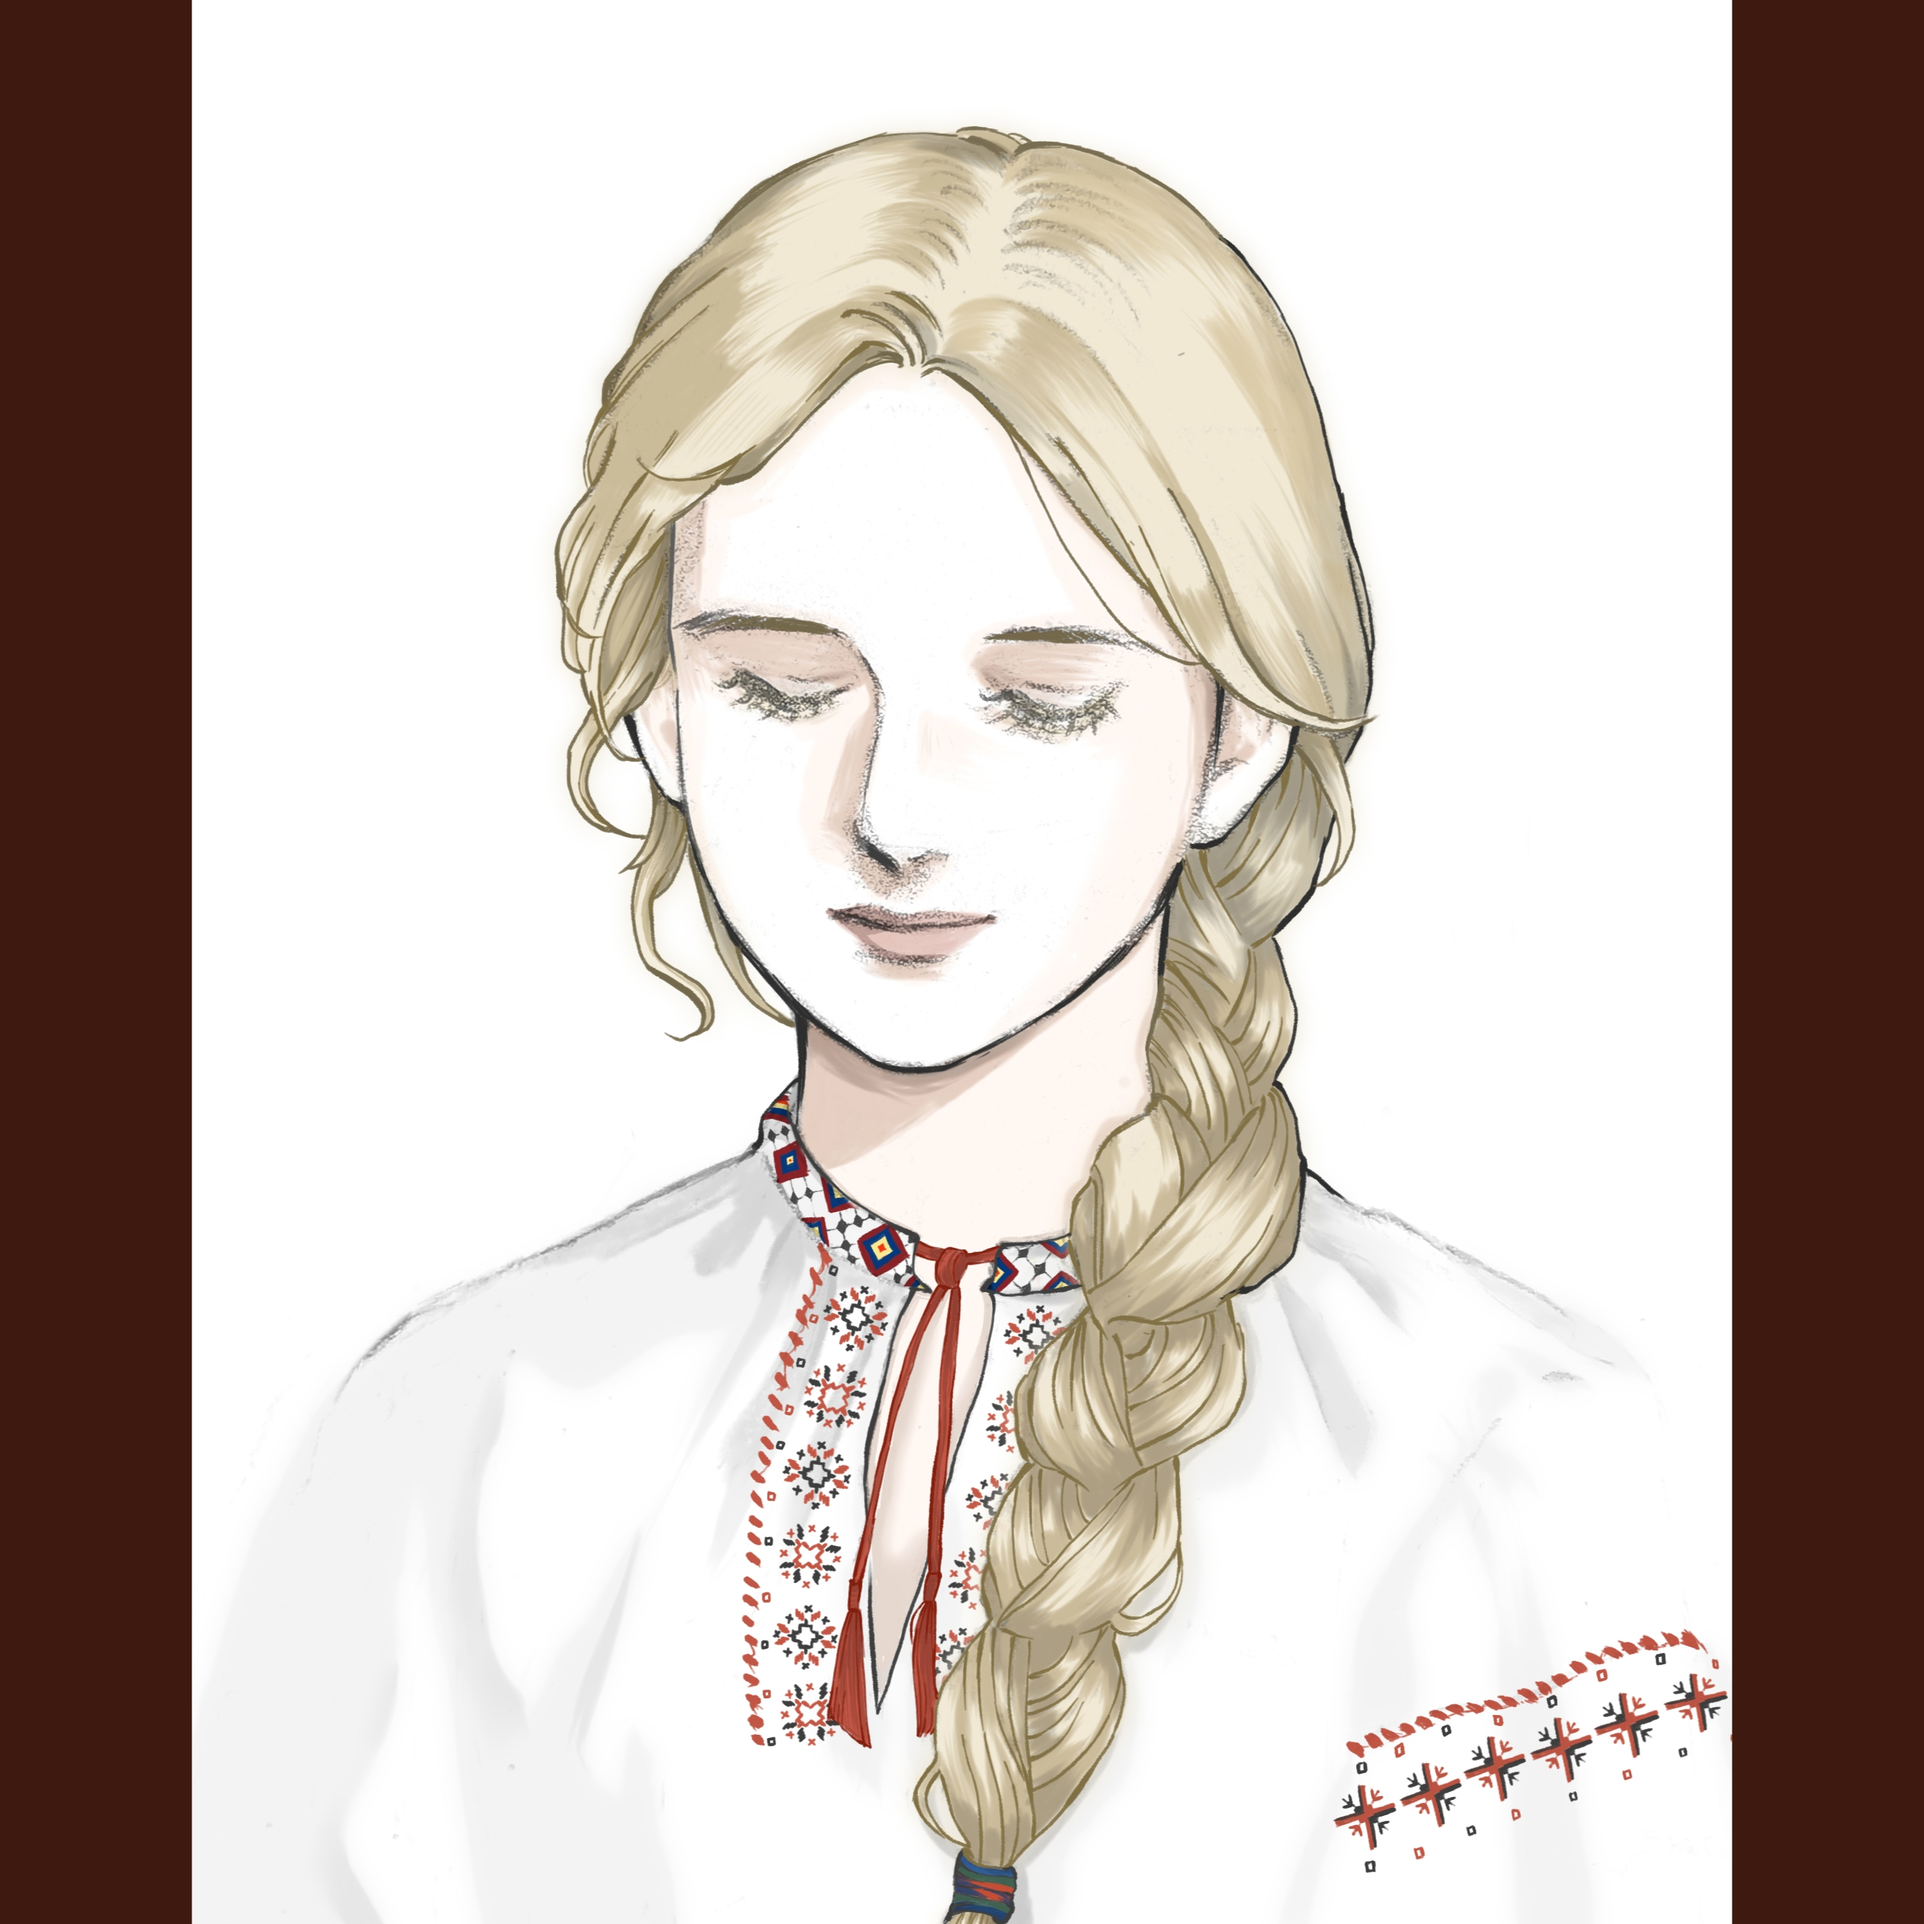
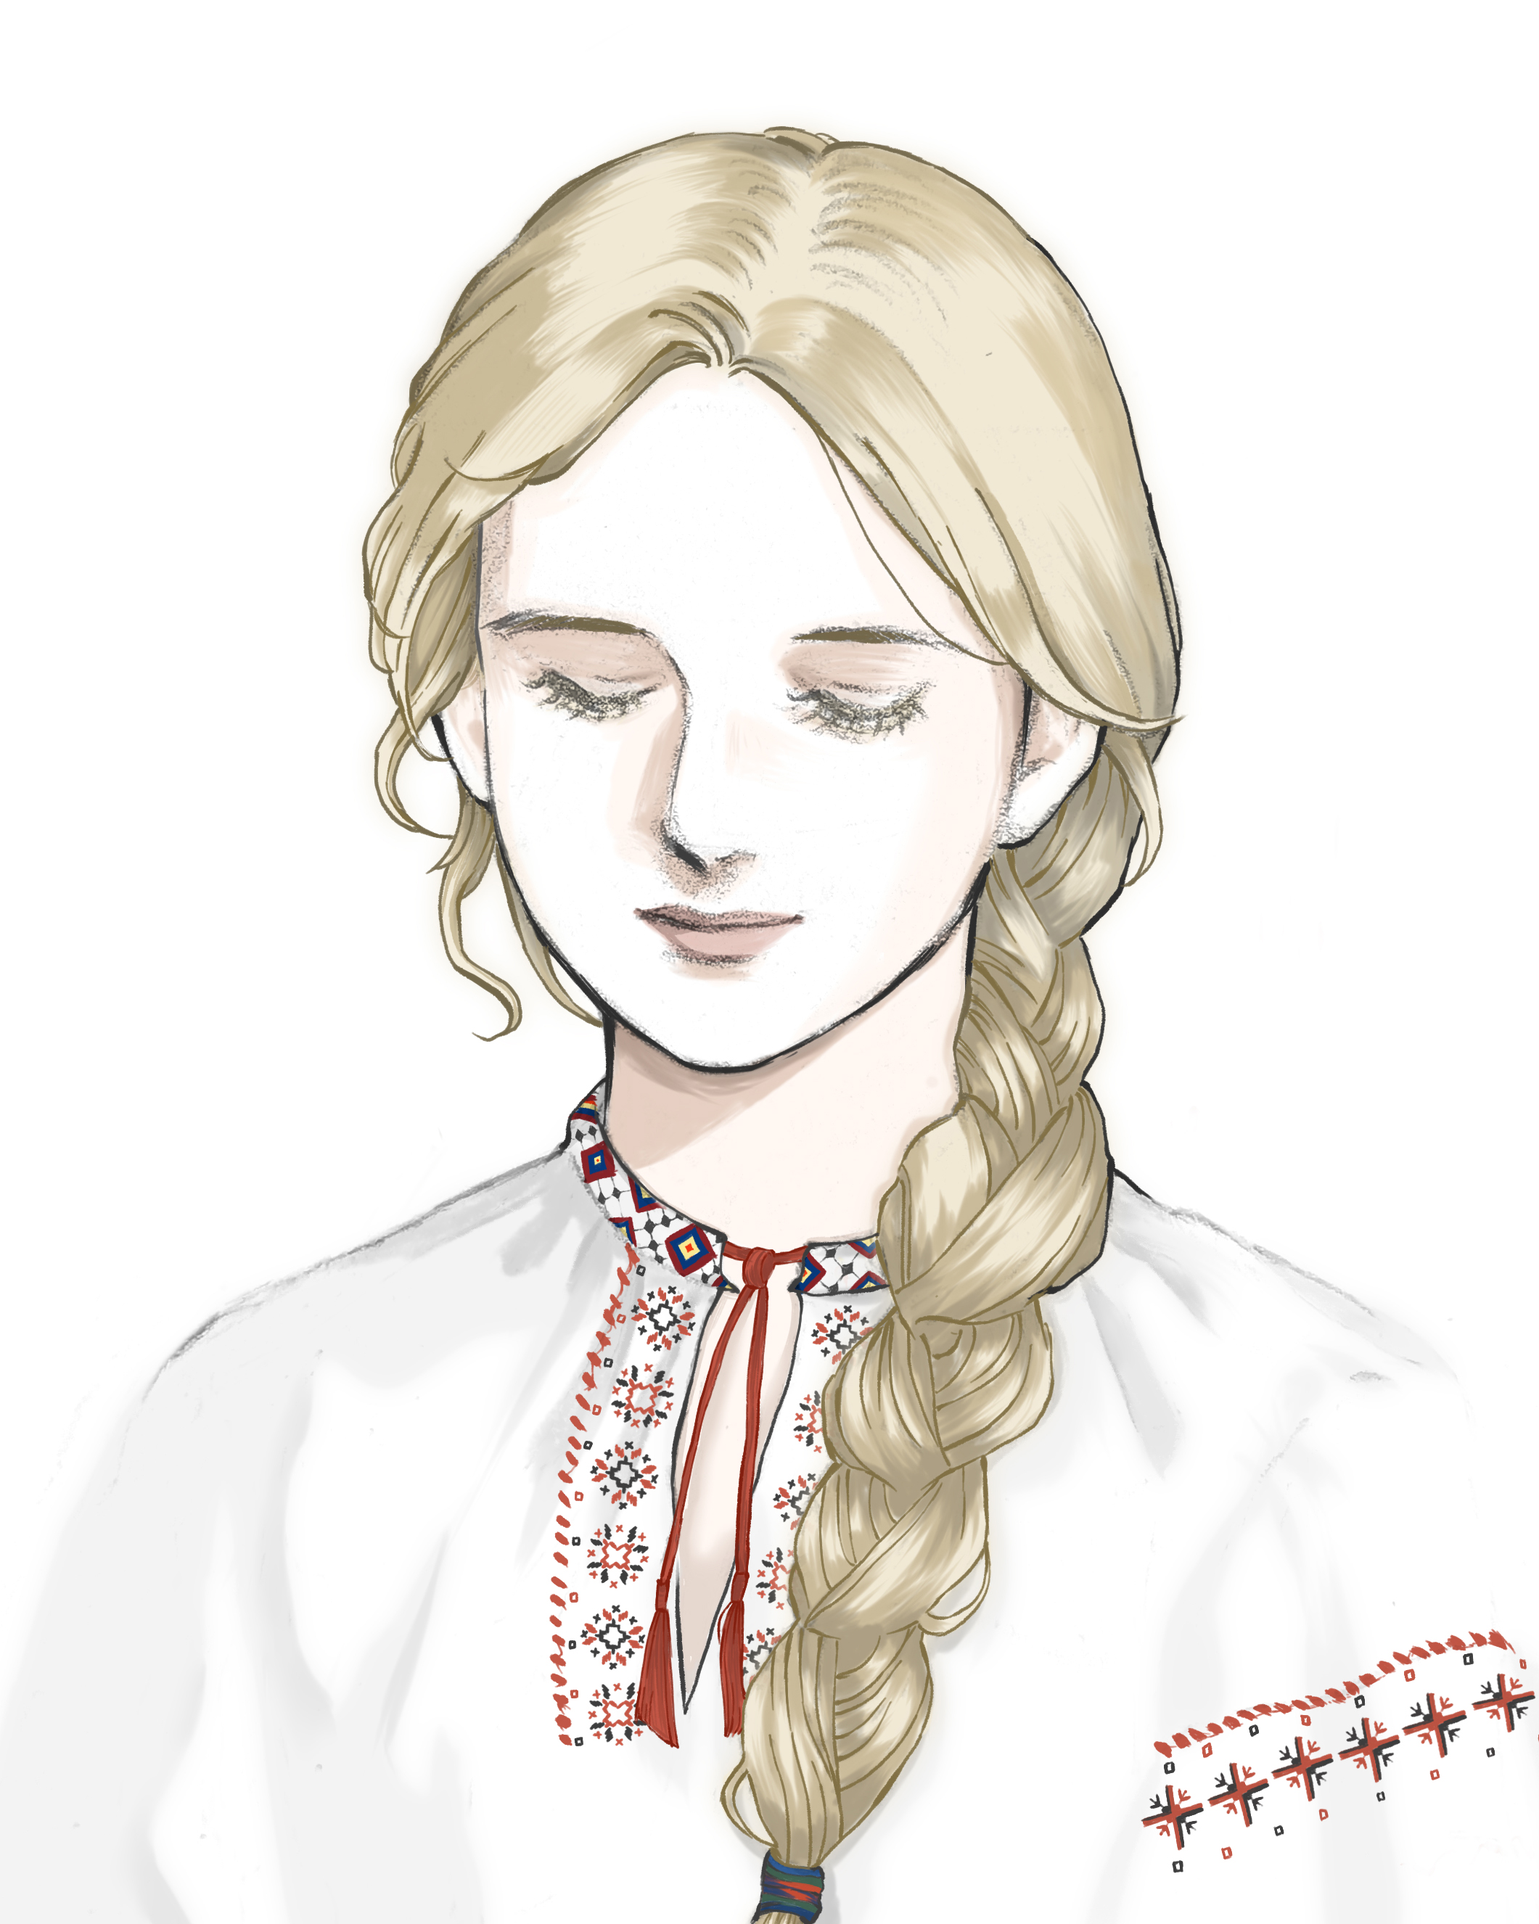
Add files via upload

diff --git a/index.html b/index.html
@@ -43,7 +43,9 @@
 				<!-- One -->
 					<section id="one" class="wrapper style2 spotlights">
 						<section>
-							<a class="image" href="#" onclick="return false;"><img src="images/pic01.jpg" alt="" data-position="center center" /></a>
+							<div class="image-fit">
+  								<img src="images/pic01.jpg" alt="" />
+							</div>
 							<div class="content">
 								<div class="inner">
 									<h2>Cube-01</h2>
@@ -54,7 +56,9 @@
 							</div>
 						</section>
 						<section>
-							<a class="image" href="#" onclick="return false;"><img src="images/lowicz6.4.jpg" alt="" data-position="25% 25%" /></a>
+							<div class="image-fit">
+  								<img src="images/lowicz6.4.jpg" alt="" />
+							</div>
 							<div class="content">
 								<div class="inner">
 									<h2>Łowicz</h2>
@@ -65,7 +69,9 @@
 							</div>
 						</section>
 						<section>
-							<a class="image" href="#" onclick="return false;"><img src="images/pic02.jpg" alt="" data-position="top center" /></a>
+							<div class="image-fit">
+  								<img src="images/pic02.jpg" alt="" />
+							</div>
 							<div class="content">
 								<div class="inner">
 									<h2>Cube-02</h2>
@@ -76,7 +82,9 @@
 							</div>
 						</section>
 						<section>
-							<a class="image" href="#" onclick="return false;"><img src="images/260107.jpg" alt="" data-position="top center" /></a>
+							<div class="image-fit">
+  								<img src="images/260107.jpg" alt="" />
+							</div>
 							<div class="content">
 								<div class="inner">
 									<h2>Уральская рябинушка</h2>
@@ -87,7 +95,9 @@
 							</div>
 						</section>
 						<section>
-							<a class="image" href="#" onclick="return false;"><img src="images/260114.jpg" alt="" data-position="top center" /></a>
+							<div class="image-fit">
+  								<img src="images/260114.jpg" alt="" />
+							</div>
 							<div class="content">
 								<div class="inner">
 									<h2>Cube-03</h2>

diff --git a/assets/css/main.css b/assets/css/main.css
@@ -3907,3 +3907,12 @@ input, select, textarea {
 			}
 
 		}
+		.image-fit {
+  width: 100%;
+}
+
+.image-fit img {
+  width: 100%;
+  height: auto;
+  display: block;
+}
